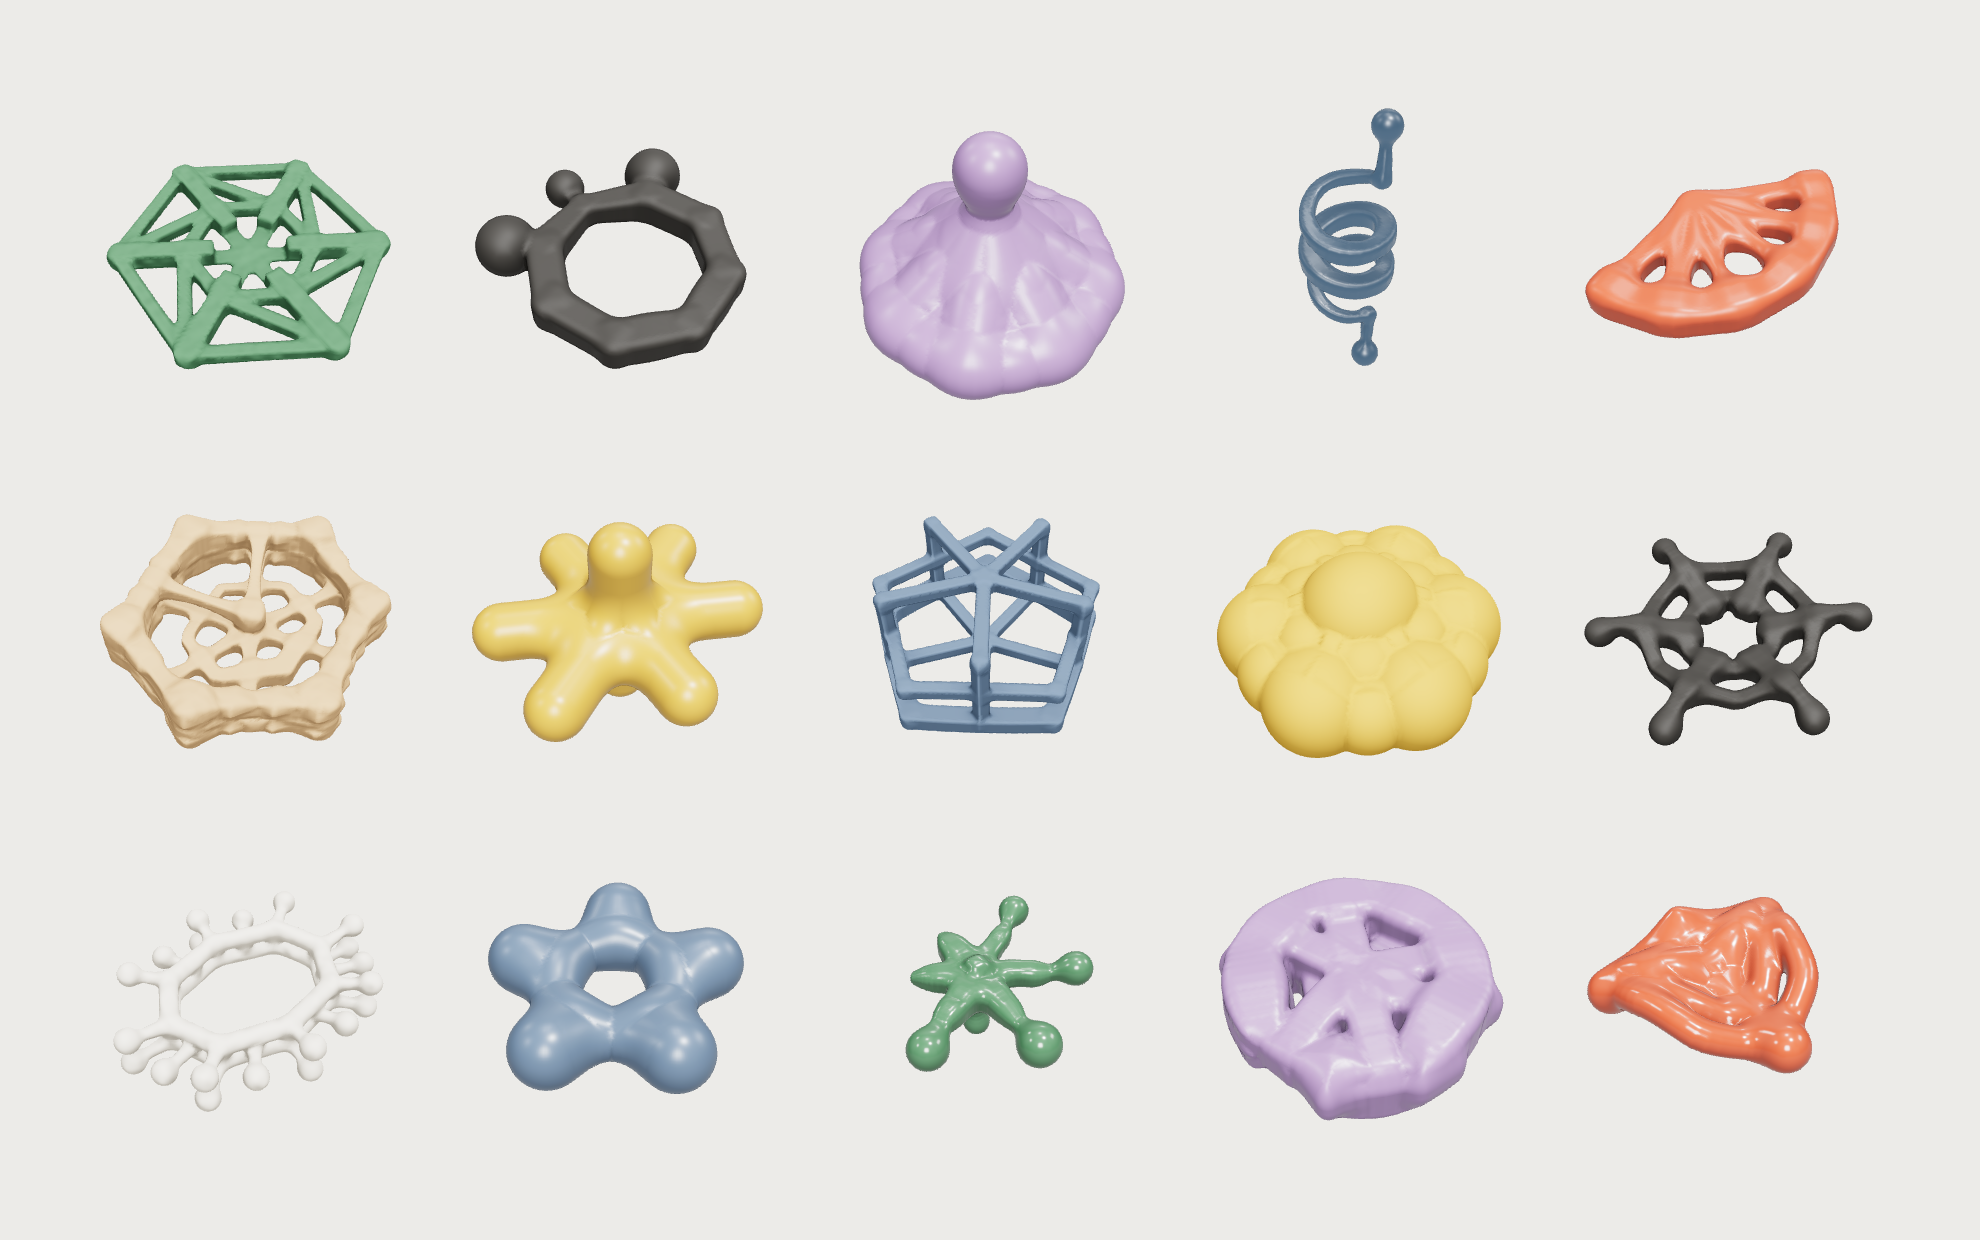
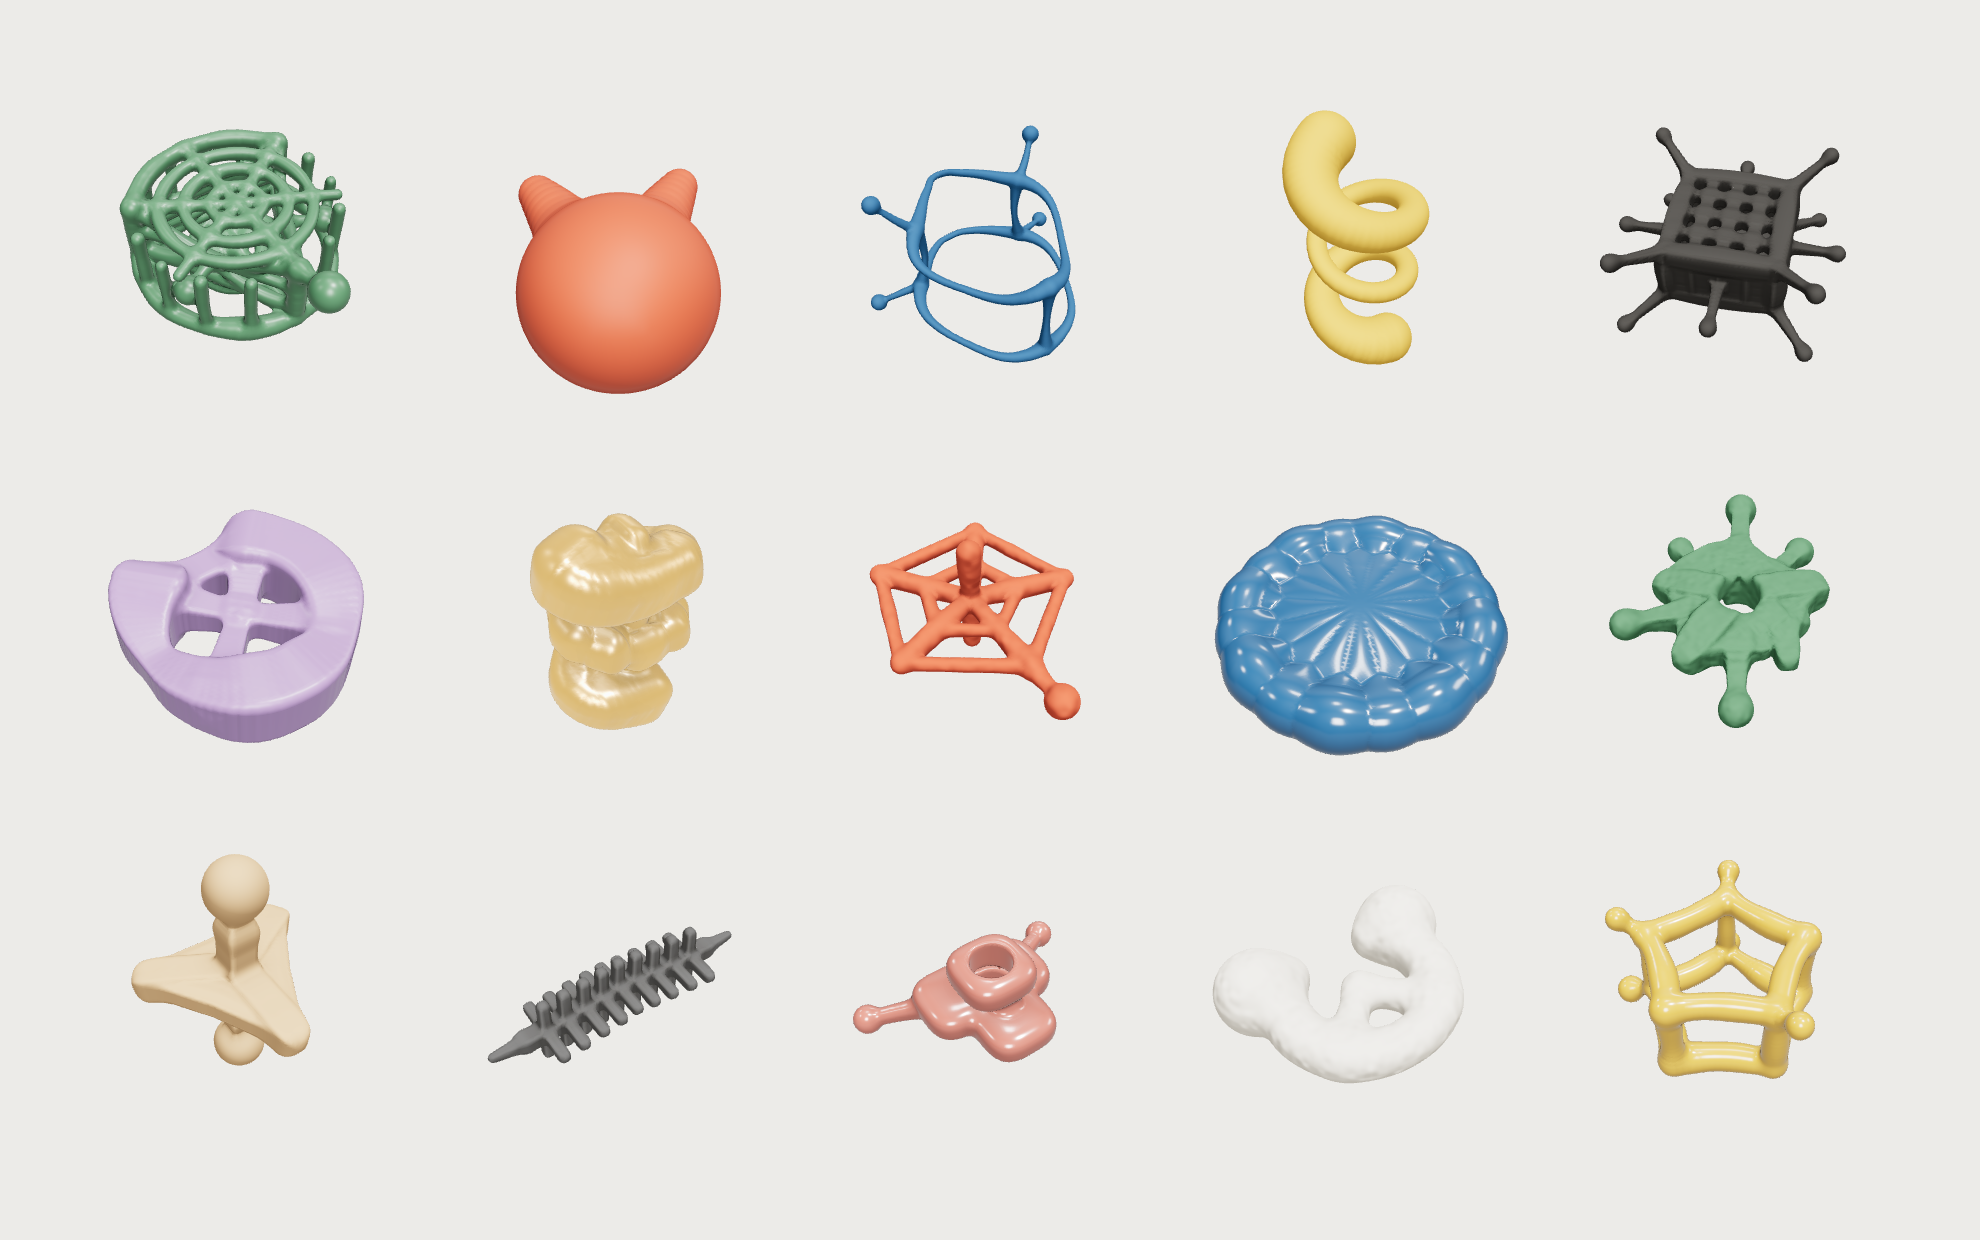
Use hand-picked shapes for the README gallery

diff --git a/README.md b/README.md
@@ -2,7 +2,7 @@
 
 **Procedural objects from a handful of parameters.** Pick a skeleton, give it flesh, add a lattice or some noise — and get a finished, closed mesh in one call. No modelling, no boolean operations, no mesh repair.
 
-![Fifteen shapes from random seeds](docs/gallery.png)
+![Fifteen generated shapes](docs/gallery.png)
 
 - **Skeleton → flesh → lattice → noise.** Shapes are built the way people make things: a frame, material around it, structure, then irregularity. ~30 parameters, each with a visible effect.
 - **Always a usable result.** Every parameter combination yields one connected, closed mesh with rounded joints. Random seeds give endless variations.
